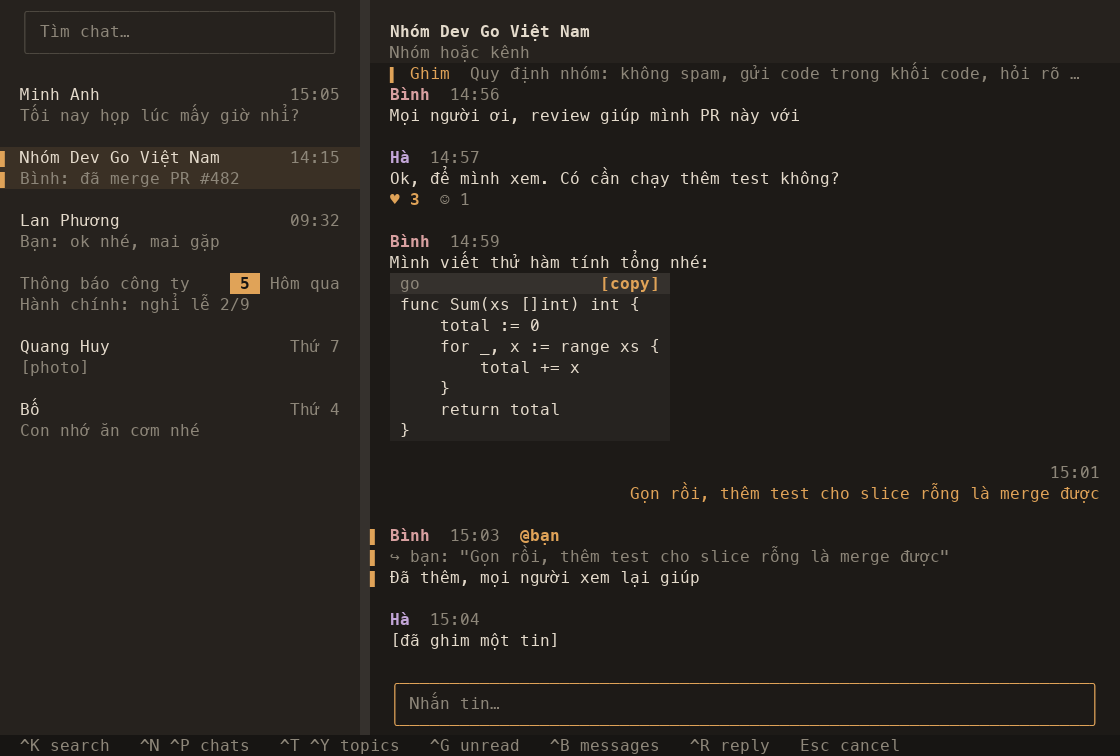
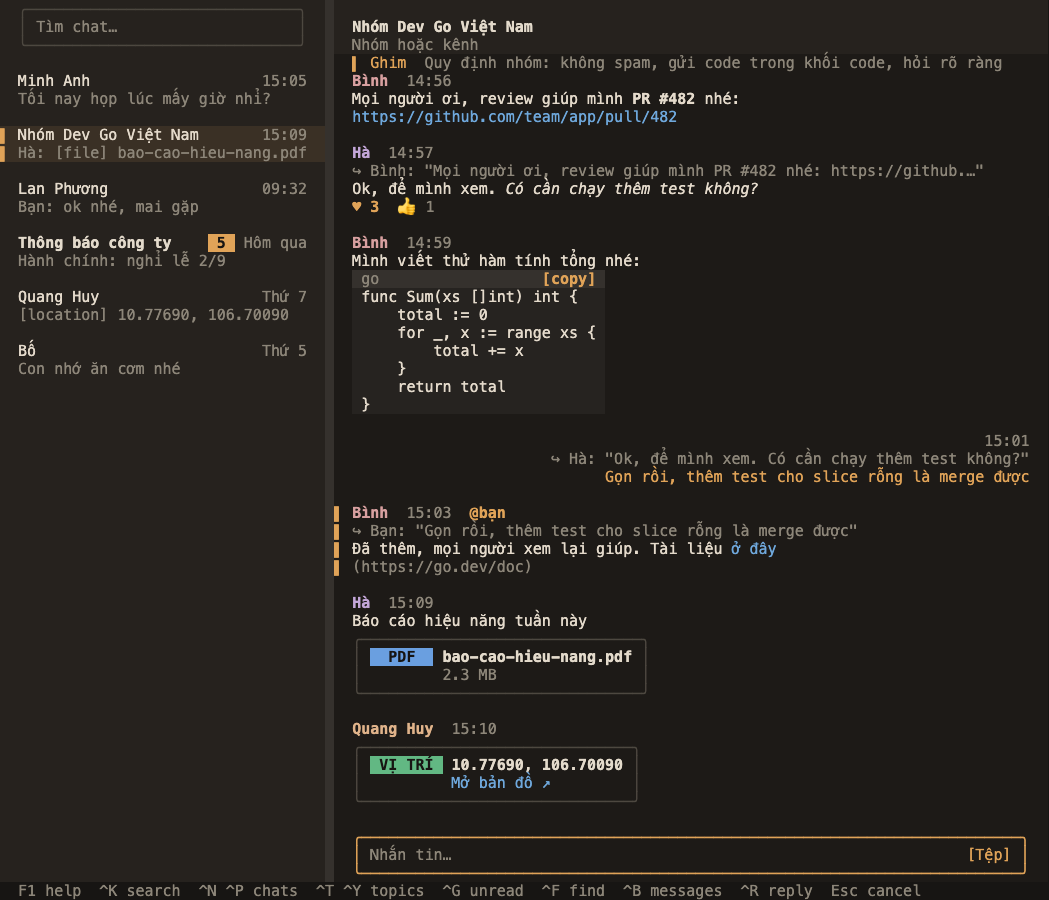
README: new screenshots drawn from fake data (scripts/shots.sh), Ctrl+F screenshot; search snippets start at a word

diff --git a/screenshot_test.go b/screenshot_test.go
@@ -1,0 +1,285 @@
+package main
+
+// Screenshots for the README, drawn from fake data (no Telegram account is used):
+//
+//	BONAGRAM_SHOTS=docs go test -run TestScreenshots .
+//
+// writes docs/*.html (the frame as coloured HTML); scripts/shots.sh turns them into PNG with headless Chrome.
+
+import (
+	"fmt"
+	"html"
+	"os"
+	"path/filepath"
+	"strconv"
+	"strings"
+	"testing"
+	"time"
+
+	tea "github.com/charmbracelet/bubbletea"
+	"github.com/charmbracelet/lipgloss"
+	"github.com/muesli/termenv"
+	"github.com/gotd/td/tg"
+)
+
+const shotW, shotH = 116, 50
+
+func TestScreenshots(t *testing.T) {
+	dir := os.Getenv("BONAGRAM_SHOTS")
+	if dir == "" {
+		t.Skip("set BONAGRAM_SHOTS=<folder> to draw the README screenshots")
+	}
+	lipgloss.SetColorProfile(termenv.TrueColor) // tests have no terminal: colours would be dropped
+	oldK, oldR := kitty, rawProto
+	kitty, rawProto = false, ""
+	defer func() { kitty, rawProto = oldK, oldR }()
+
+	a := demoModel(t)
+	writeShot(t, filepath.Join(dir, "screenshot.html"), a.mm.View())
+
+	// Ctrl+F: searching the messages of the chat
+	a.send(tea.KeyMsg{Type: tea.KeyCtrlF})
+	a.send(searchMsg{seq: 0, q: "test", lines: searchDemo()})
+	m := a.m()
+	m.ms.seq, m.ms.ran, m.ms.res = 0, "test", searchDemo()
+	m.in.SetValue("test")
+	m.in.CursorEnd()
+	m.ms.sel = 1
+	m.render()
+	a.set(m)
+	writeShot(t, filepath.Join(dir, "screenshot-search.html"), a.mm.View())
+}
+
+func demoModel(t *testing.T) *actionModel {
+	rec := &recorder{}
+	m := newTestModel(t)
+	m.api = tg.NewClient(rec)
+	m.selfKey = "u100"
+	a := &actionModel{mm: m, rec: rec}
+	a.send(tea.WindowSizeMsg{Width: shotW, Height: shotH})
+	a.send(tea.FocusMsg{})
+	at := func(h, mi int) time.Time { return time.Date(2026, 11, 17, h, mi, 0, 0, time.Local) }
+	a.send(chatsMsg{chats: []chat{
+		{key: "u1", title: "Minh Anh", last: "Tối nay họp lúc mấy giờ nhỉ?", date: int(at(15, 5).Unix()), peer: &tg.InputPeerUser{UserID: 1}},
+		{key: "c9", title: "Nhóm Dev Go Việt Nam", last: "Hà: [file] bao-cao-hieu-nang.pdf", date: int(at(15, 9).Unix()), peer: &tg.InputPeerChannel{ChannelID: 9}, pinned: true},
+		{key: "u2", title: "Lan Phương", last: "Bạn: ok nhé, mai gặp", date: int(at(9, 32).Unix()), peer: &tg.InputPeerUser{UserID: 2}},
+		{key: "c3", title: "Thông báo công ty", last: "Hành chính: nghỉ lễ 2/9", unread: 5, date: int(at(8, 0).Add(-24 * time.Hour).Unix()), peer: &tg.InputPeerChannel{ChannelID: 3}},
+		{key: "u4", title: "Quang Huy", last: "[location] 10.77690, 106.70090", date: int(at(8, 0).Add(-72 * time.Hour).Unix()), peer: &tg.InputPeerUser{UserID: 4}},
+		{key: "u5", title: "Bố", last: "Con nhớ ăn cơm nhé", date: int(at(8, 0).Add(-120 * time.Hour).Unix()), peer: &tg.InputPeerUser{UserID: 5}},
+	}})
+	for i := 0; i < 2; i++ { // open the group
+		a.send(tea.KeyMsg{Type: tea.KeyCtrlN})
+	}
+	msg := func(id int, text string, es ...tg.MessageEntityClass) *tg.Message {
+		return &tg.Message{ID: id, Message: text, Entities: es}
+	}
+	u16 := func(s, sub string) (int, int) { // UTF-16 offset and length of sub in s
+		i := strings.Index(s, sub)
+		return len([]rune(s[:i])) + strings.Count(s[:i], "😀"), len([]rune(sub))
+	}
+	t1 := "Mọi người ơi, review giúp mình PR #482 nhé: https://github.com/team/app/pull/482"
+	o1, l1 := u16(t1, "PR #482")
+	o1b, l1b := u16(t1, "https://github.com/team/app/pull/482")
+	t2 := "Ok, để mình xem. Có cần chạy thêm test không?"
+	o2, l2 := u16(t2, "Có cần chạy thêm test không?")
+	t3 := "Mình viết thử hàm tính tổng nhé:\nfunc Sum(xs []int) int {\n    total := 0\n    for _, x := range xs {\n        total += x\n    }\n    return total\n}"
+	o3, _ := u16(t3, "func Sum")
+	t4 := "Gọn rồi, thêm test cho slice rỗng là merge được"
+	t5 := "Đã thêm, mọi người xem lại giúp. Tài liệu ở đây"
+	o5, l5 := u16(t5, "ở đây")
+	pdf := docMsg(7, "bao-cao-hieu-nang.pdf", "application/pdf", 2400000)
+	pdf.Message = "Báo cáo hiệu năng tuần này"
+	geo := &tg.Message{ID: 8, Media: &tg.MessageMediaGeo{Geo: &tg.GeoPoint{Lat: 10.7769, Long: 106.7009}}}
+	l := func(id int, from, sender string, h, mi int, m *tg.Message, out bool, reply int) line {
+		text := strings.TrimSpace(m.Message + " " + mediaTag(m.Media))
+		return line{id: id, from: from, sender: sender, out: out, text: text, at: at(h, mi), msg: m, replyTo: reply, segs: segments(m.Message, m.Entities)}
+	}
+	ls := []line{
+		l(1, "Bình", "u11", 14, 56, msg(1, t1, &tg.MessageEntityBold{Offset: o1, Length: l1}, &tg.MessageEntityURL{Offset: o1b, Length: l1b}), false, 0),
+		l(2, "Hà", "u12", 14, 57, msg(2, t2, &tg.MessageEntityItalic{Offset: o2, Length: l2}), false, 1),
+		l(3, "Bình", "u11", 14, 59, msg(3, t3, &tg.MessageEntityPre{Offset: o3, Length: len([]rune(t3)) - o3, Language: "go"}), false, 0),
+		l(4, "Bạn", "", 15, 1, msg(4, t4), true, 2),
+		l(5, "Bình", "u11", 15, 3, msg(5, t5, &tg.MessageEntityTextURL{Offset: o5, Length: l5, URL: "https://go.dev/doc"}), false, 4),
+		l(7, "Hà", "u12", 15, 9, pdf, false, 0),
+		l(8, "Quang Huy", "u4", 15, 10, geo, false, 0),
+	}
+	ls[1].reacts = []reaction{{"♥", 3, true}, {"👍", 1, false}}
+	ls[4].mentioned = true
+	a.send(histMsg{mk: "c9", key: "c9", lines: ls})
+	a.send(pinMsg{mk: "c9", text: "Quy định nhóm: không spam, gửi code trong khối code, hỏi rõ ràng"})
+	return a
+}
+
+func searchDemo() []line {
+	at := func(d, h, mi int) time.Time { return time.Date(2026, 11, d, h, mi, 0, 0, time.Local) }
+	return []line{
+		{id: 2, from: "Hà", text: "Ok, để mình xem. Có cần chạy thêm test không?", at: at(17, 14, 57)},
+		{id: 4, from: "Bạn", text: "Gọn rồi, thêm test cho slice rỗng là merge được", at: at(17, 15, 1)},
+		{id: 31, from: "Bình", text: "CI đang đỏ vì test tích hợp chạy quá 5 phút, mình tăng timeout lên 10 phút nhé", at: at(14, 10, 22)},
+		{id: 27, from: "Hà", text: "Ai viết test cho phần thanh toán chưa? Sprint này cần xong", at: at(12, 9, 5)},
+		{id: 18, from: "Minh Anh", text: "Gửi mọi người checklist test trước khi release", at: at(3, 16, 40)},
+	}
+}
+
+// writeShot turns a frame into HTML: each SGR colour, bold, italic, underline, strike and reverse becomes a span.
+func writeShot(t *testing.T, path, frame string) {
+	t.Helper()
+	var b strings.Builder
+	b.WriteString(`<!DOCTYPE html><meta charset="utf-8"><style>
+html,body{margin:0;background:#ff00ff}
+pre{margin:0;display:inline-block;white-space:pre;background:` + cBg + `;color:` + cFg + `;font:15px/18px Menlo,monospace;padding:0}
+div{height:18px;white-space:pre}
+span{display:inline-block;height:18px;vertical-align:top}
+</style><pre><div>`)
+	type st struct {
+		fg, bg                    string
+		bold, it, ul, strike, rev bool
+		dim                       bool
+	}
+	var s st
+	open := false
+	span := func() {
+		if open {
+			b.WriteString("</span>")
+		}
+		fg, bg := s.fg, s.bg
+		if s.rev {
+			fg, bg = bg, fg
+			if fg == "" {
+				fg = cBg
+			}
+			if bg == "" {
+				bg = cFg
+			}
+		}
+		var css []string
+		if fg != "" {
+			css = append(css, "color:"+fg)
+		}
+		if bg != "" {
+			css = append(css, "background:"+bg)
+		}
+		if s.bold {
+			css = append(css, "font-weight:bold")
+		}
+		if s.it {
+			css = append(css, "font-style:italic")
+		}
+		var deco []string
+		if s.ul {
+			deco = append(deco, "underline")
+		}
+		if s.strike {
+			deco = append(deco, "line-through")
+		}
+		if len(deco) > 0 {
+			css = append(css, "text-decoration:"+strings.Join(deco, " "))
+		}
+		if s.dim {
+			css = append(css, "opacity:.6")
+		}
+		b.WriteString(`<span style="` + strings.Join(css, ";") + `">`)
+		open = true
+	}
+	hex := func(r, g, bl string) string {
+		ri, _ := strconv.Atoi(r)
+		gi, _ := strconv.Atoi(g)
+		bi, _ := strconv.Atoi(bl)
+		return fmt.Sprintf("#%02x%02x%02x", ri, gi, bi)
+	}
+	for i := 0; i < len(frame); {
+		c := frame[i]
+		if c == '\n' { // every row is its own block of exactly one line height, its spans fill it
+			if open {
+				b.WriteString("</span>")
+				open = false
+			}
+			b.WriteString("</div><div>")
+			span()
+			i++
+			continue
+		}
+		if c != 0x1b {
+			j := i
+			for j < len(frame) && frame[j] != 0x1b && frame[j] != '\n' {
+				j++
+			}
+			b.WriteString(html.EscapeString(frame[i:j]))
+			i = j
+			continue
+		}
+		if i+1 < len(frame) && frame[i+1] == ']' { // OSC: skip to BEL or ST
+			j := i + 2
+			for j < len(frame) && frame[j] != '\a' && !(frame[j] == 0x1b && j+1 < len(frame) && frame[j+1] == '\\') {
+				j++
+			}
+			if j < len(frame) && frame[j] == 0x1b {
+				j++
+			}
+			i = j + 1
+			continue
+		}
+		if i+1 < len(frame) && frame[i+1] == '[' {
+			j := i + 2
+			for j < len(frame) && (frame[j] < 0x40 || frame[j] > 0x7e) {
+				j++
+			}
+			if j < len(frame) && frame[j] == 'm' {
+				p := strings.Split(frame[i+2:j], ";")
+				for k := 0; k < len(p); k++ {
+					switch p[k] {
+					case "", "0":
+						s = st{}
+					case "1":
+						s.bold = true
+					case "2":
+						s.dim = true
+					case "3":
+						s.it = true
+					case "4":
+						s.ul = true
+					case "7":
+						s.rev = true
+					case "9":
+						s.strike = true
+					case "22":
+						s.bold, s.dim = false, false
+					case "23":
+						s.it = false
+					case "24":
+						s.ul = false
+					case "27":
+						s.rev = false
+					case "29":
+						s.strike = false
+					case "39":
+						s.fg = ""
+					case "49":
+						s.bg = ""
+					case "38", "48":
+						if k+4 < len(p) && p[k+1] == "2" {
+							col := hex(p[k+2], p[k+3], p[k+4])
+							if p[k] == "38" {
+								s.fg = col
+							} else {
+								s.bg = col
+							}
+							k += 4
+						}
+					}
+				}
+				span()
+			}
+			i = j + 1
+			continue
+		}
+		i++
+	}
+	if open {
+		b.WriteString("</span>")
+	}
+	b.WriteString("</div></pre>")
+	if err := os.WriteFile(path, []byte(b.String()), 0o644); err != nil {
+		t.Fatal(err)
+	}
+}

diff --git a/msearch.go b/msearch.go
@@ -227,7 +227,11 @@ func (m *model) renderResults() {
 	for i, l := range s.res {
 		text := flat(l.text)
 		if at := strings.Index(strings.ToLower(text), strings.ToLower(s.ran)); at > 20 {
-			text = "…" + string([]rune(text)[len([]rune(text[:at]))-20:])
+			text = string([]rune(text)[len([]rune(text[:at]))-20:])
+			if sp := strings.IndexByte(text, ' '); sp >= 0 && sp < 20 { // start at a word, not in the middle of one
+				text = text[sp+1:]
+			}
+			text = "…" + text
 		}
 		bar, head := " ", fg(cMuted).Render(l.at.Format("02/01 15:04"))+"  "+nameStyle(l.from).Render(l.from)+": "
 		row := ansi.Truncate(bar+" "+head+text, max(m.vp.Width-1, 1), "…")

diff --git a/CLAUDE.md b/CLAUDE.md
@@ -30,6 +30,8 @@ Single `package main`; the pieces that must be read together:
 - **`media.go`**: downloads, image drawing (Kitty unicode placeholders, or half-blocks fallback; `BONAGRAM_IMAGES` forces one), and `lockedOut`/`termWrite`.
 - **`input.go`**: filter that repairs mouse reports Bubble Tea split in two (they would otherwise be typed into the input box).
 
+README screenshots: `scripts/shots.sh` (fake data in `screenshot_test.go` → HTML → headless Chrome → ImageMagick); re-run it when the look changes.
+
 ## Non-obvious things
 
 - **All terminal output goes through one mutex** (`lockedOut` is Bubble Tea's output; image/bell/OSC writes use `termWrite`). Each Bubble Tea frame is wrapped in autowrap-off (`?7l`…`?7h`) and followed by a move of the **real** cursor to the focused input, because IME composing text (Vietnamese Telex/VNI) is drawn at the real cursor. The built-in virtual cursor of the text inputs is disabled for that reason. `lockedOut` must keep `Read/Fd/Close`, or Bubble Tea stops recognising the terminal and the screen stays blank.

diff --git a/README.vi.md b/README.vi.md
@@ -8,7 +8,11 @@ Viết bằng Go với [gotd/td](https://github.com/gotd/td) (kết nối Telegr
 
 ![Giao diện bonagram](docs/screenshot.png)
 
-*Ảnh minh hoạ: dữ liệu mẫu (tên và tin nhắn giả), dựng từ chính giao diện của app. Màu và font thật phụ thuộc terminal của bạn.*
+*Ảnh minh hoạ: dữ liệu mẫu (tên và tin nhắn giả), dựng từ chính giao diện của app bằng `scripts/shots.sh`. Ảnh có trích dẫn khi trả lời, chữ định dạng, link (cả link ẩn kèm địa chỉ), khối code, thẻ tệp và thẻ vị trí. Màu và font thật phụ thuộc terminal của bạn.*
+
+![Tìm tin nhắn bằng Ctrl+F](docs/screenshot-search.png)
+
+*`Ctrl+F`: tìm trong nội dung tin của một chat (dữ liệu mẫu).*
 
 ## Tính năng
 

diff --git a/README.md b/README.md
@@ -10,7 +10,11 @@ Written in Go with [gotd/td](https://github.com/gotd/td) (the Telegram connectio
 
 ![bonagram screenshot](docs/screenshot.png)
 
-*Illustration: sample data (made-up names and messages), rendered from the app's own output. Real colours and fonts depend on your terminal.*
+*Illustration: sample data (made-up names and messages), rendered from the app's own output by `scripts/shots.sh`. It shows a reply quote, formatting, links (a hidden one with its address), a code block, a file card and a location card. Real colours and fonts depend on your terminal.*
+
+![Searching messages with Ctrl+F](docs/screenshot-search.png)
+
+*`Ctrl+F`: searching the messages of a chat (sample data).*
 
 ## Features
 
